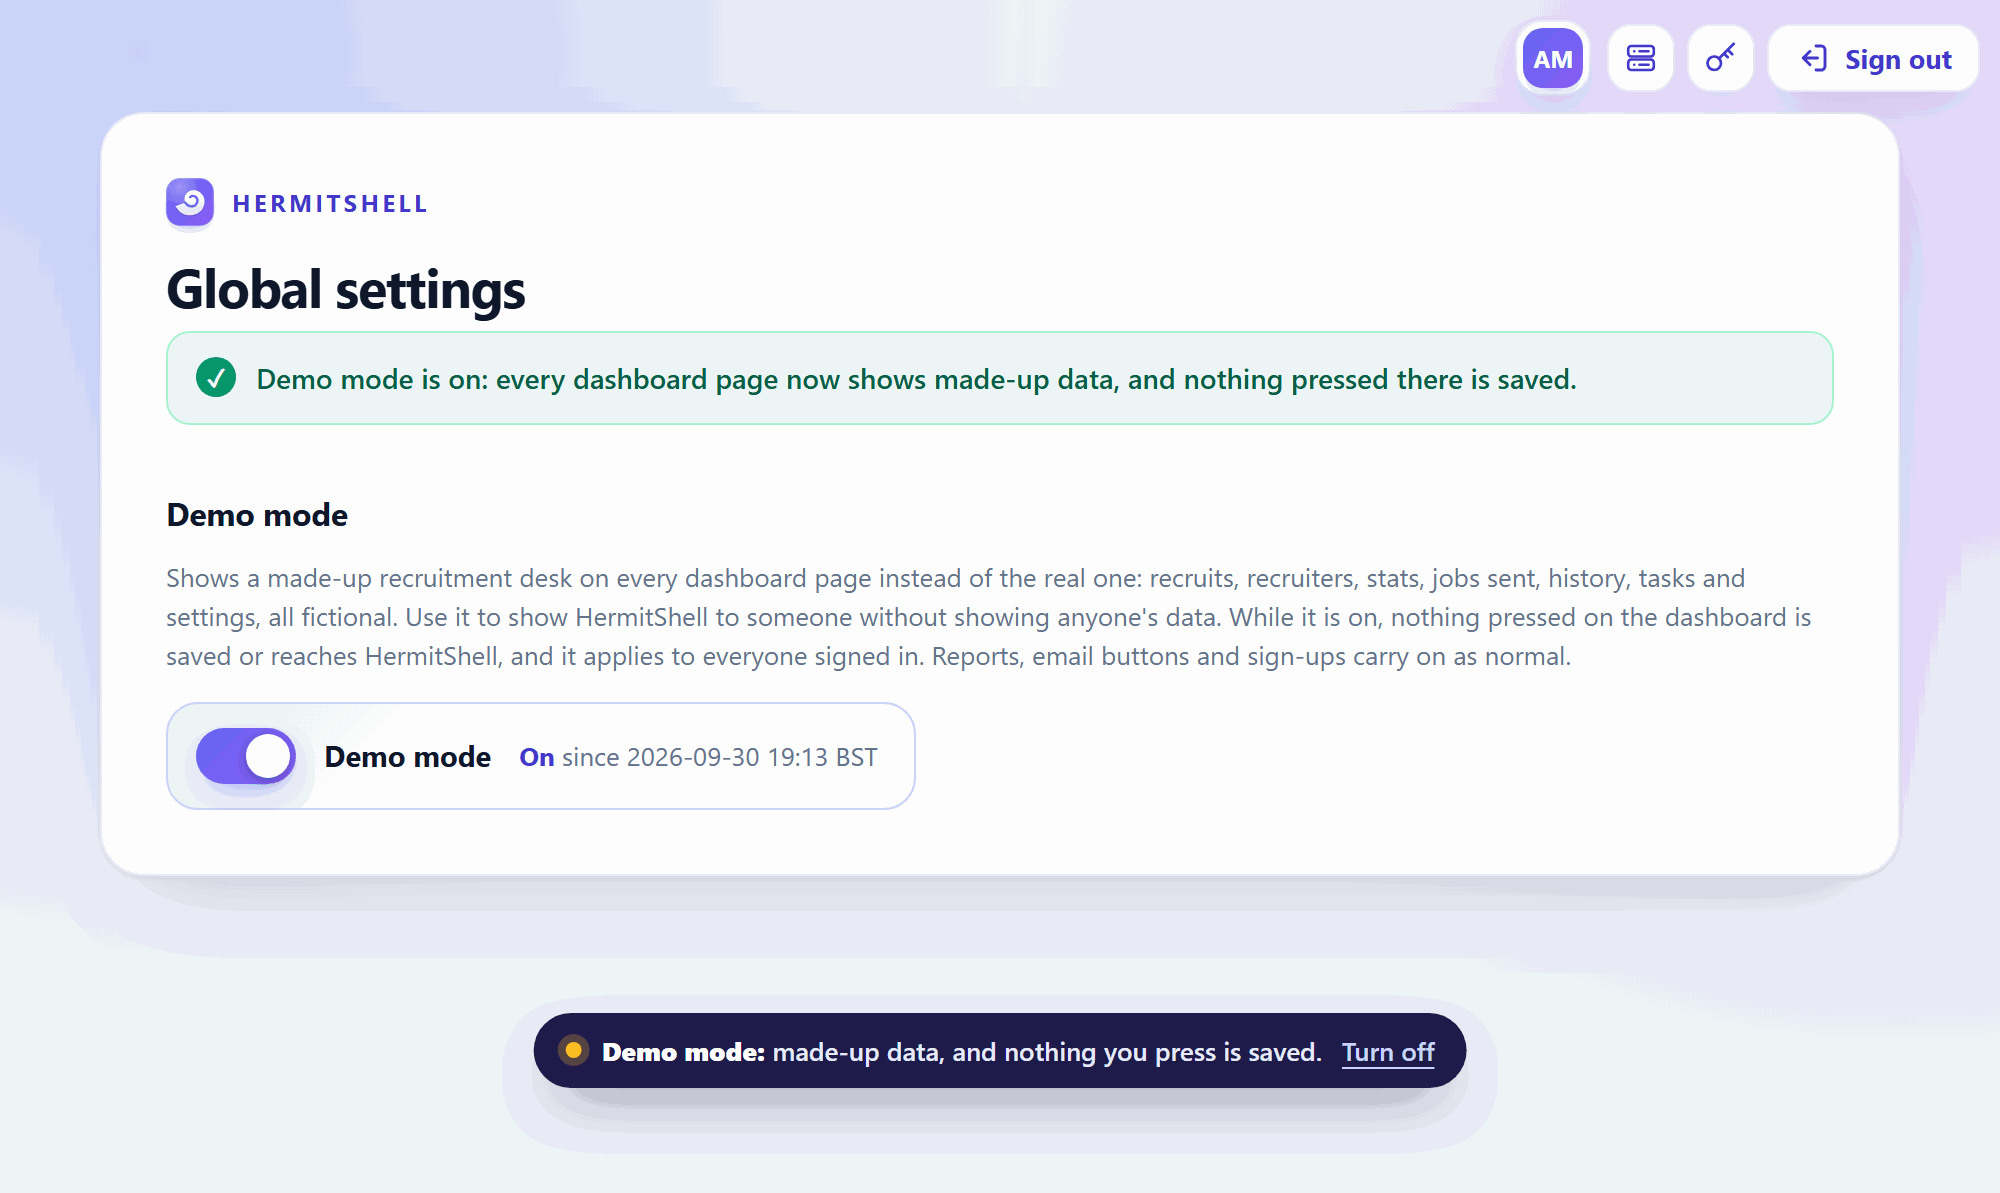
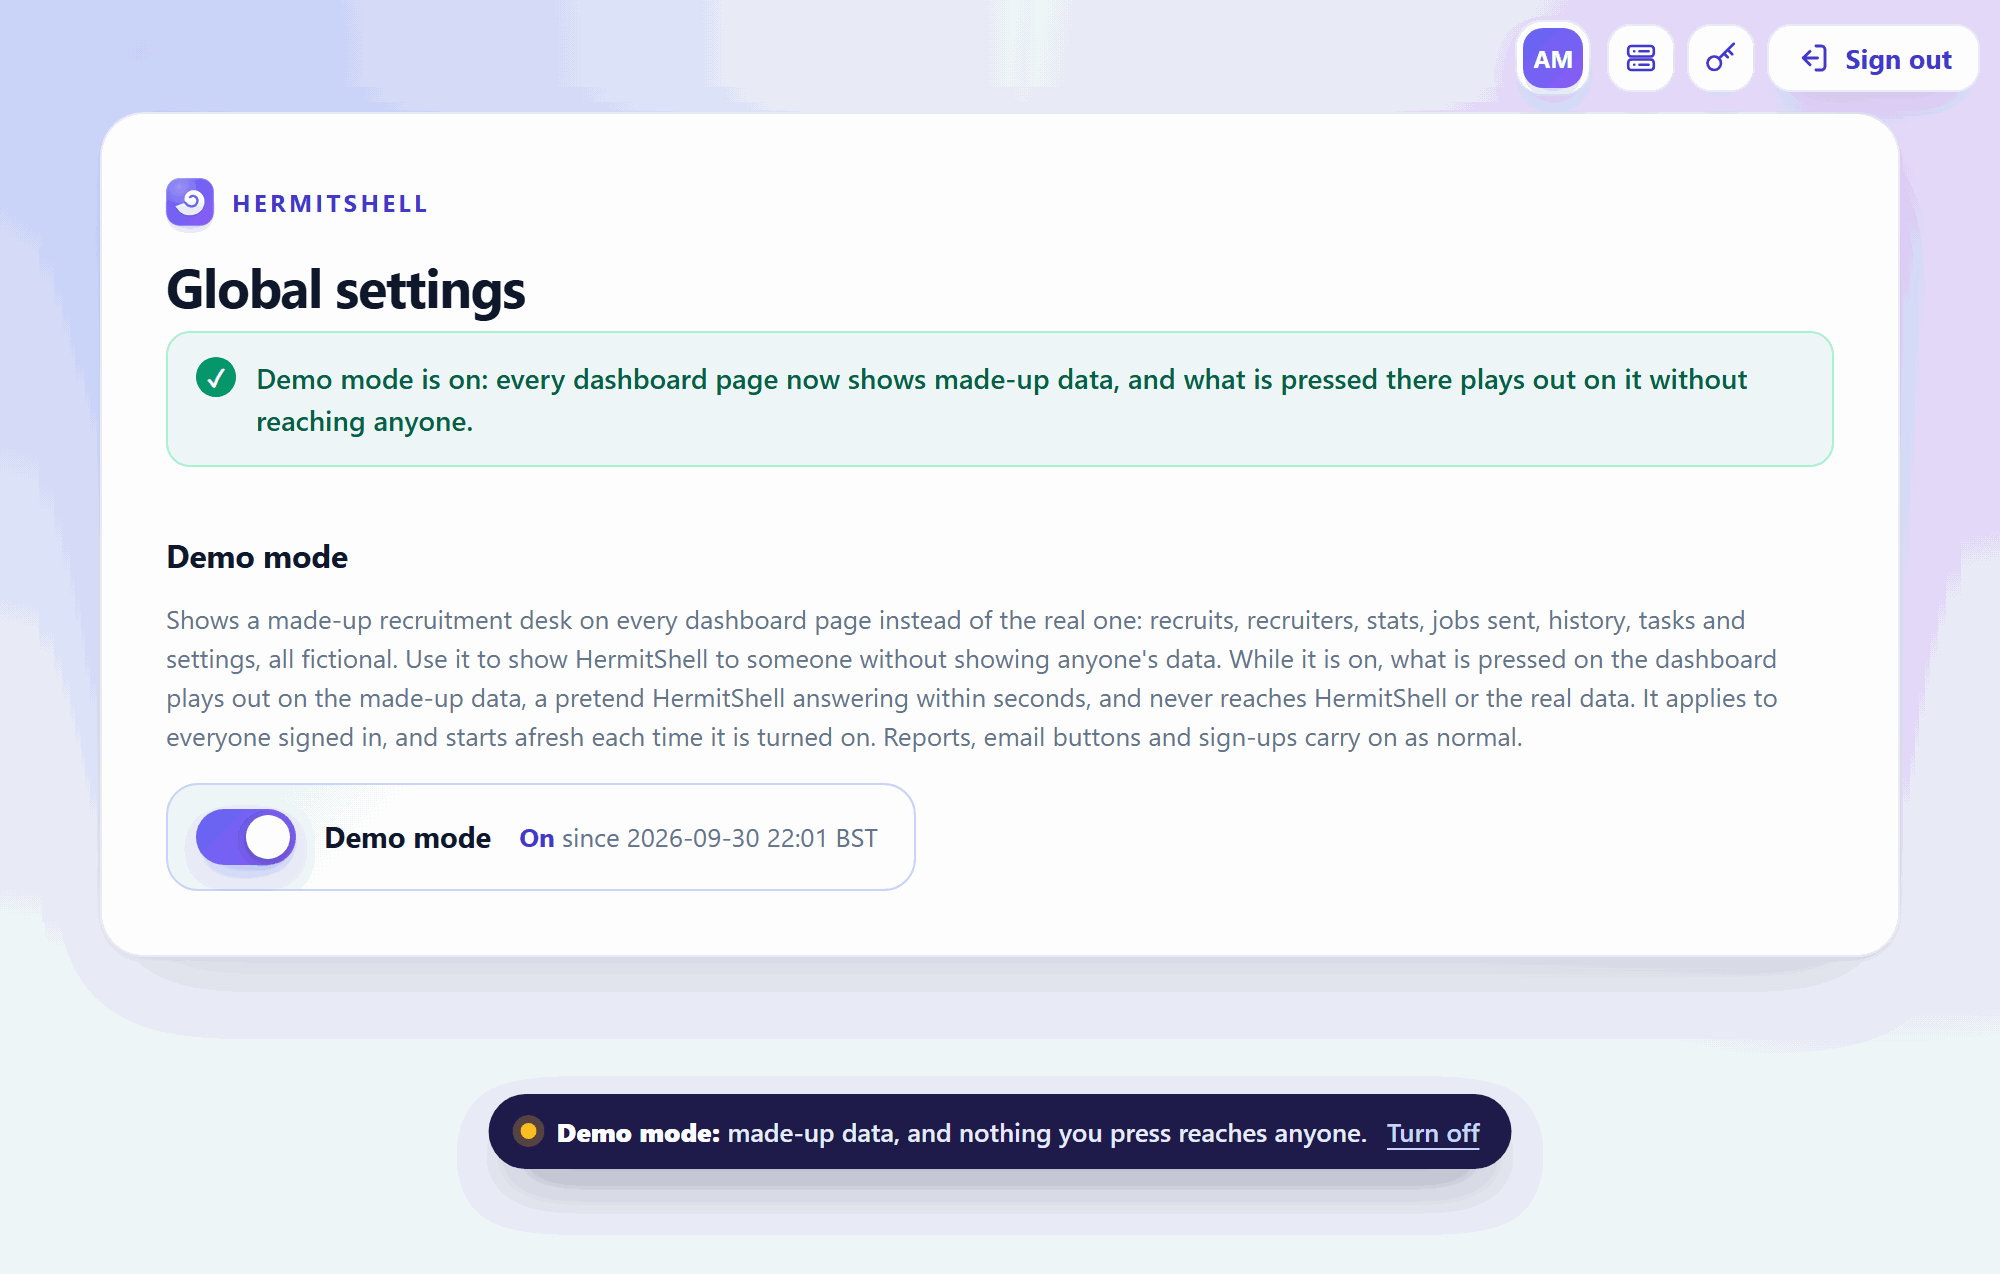
Document demo mode presses playing out
Changelog, README and feedback Worker docs describe the pretend HermitShell and
demo:state, with a new screenshot of a made-up job's letter made, skill added and
CV being made, and the demo screenshots updated for the new ribbon wording.

diff --git a/docs/feedback-worker.md b/docs/feedback-worker.md
@@ -644,13 +644,20 @@ that is on or off.
 
 <img src="images/worker/admin-dashboard-demo.png" alt="The recruits list in demo mode: made-up recruits, recruiters and invites, and the demo mode ribbon" width="720">
 
-Every press works as it would (pausing, sending jobs, assigning, inviting, saving settings, keys and
-CVs), but only on a copy of the demo data made for that request, so nothing is saved, nothing is queued
+Every press works as it would, and a pretend HermitShell plays its part a few seconds later, on the
+made-up data only: **Generate** on a cover letter or tailored CV shows **Being made&hellip;** and then a
+made-up PDF to download, **Send** turns into **Emailed**, a missing skill goes from **adding** to
+**added**, and pausing, resuming, assigning, deleting, **Send now** (a short pretend scan) and stopping
+tasks show on the dashboard as HermitShell would apply them. What it did is kept for two hours in one
+`demo:state` entry, cleared whenever the switch is turned on or off. Settings, keys, CVs and users can be
+saved but are not kept past that page, nothing typed into them goes into `demo:state`, nothing is queued
 and nothing reaches HermitShell. Changing your own password is still real. The Worker's API, the buttons
 in emails, sign-up links and the privacy notice carry on with the real data, so daily reports keep
 running while it is on.
 
 <img src="images/worker/admin-stats-demo.png" alt="A made-up recruit's stats page in demo mode" width="620">
+
+<img src="images/worker/admin-sent-demo.png" alt="A made-up job opened in demo mode: the cover letter asked for earlier made and ready to download, the Terraform skill added, and the tailored CV asked for just now being made" width="620">
 
 #### A recruit's page
 

diff --git a/docs/screenshots.md b/docs/screenshots.md
@@ -474,12 +474,14 @@ older and how to update it ([why](feedback-worker.md#how-it-stays-safe)).
 
 | Control | What it does |
 | --- | --- |
-| **Demo mode** switch | Admins only; shows Off, or On and since when. Every dashboard page shows a made-up desk for everyone signed in; presses work but save nothing and reach neither KV nor HermitShell ([more](feedback-worker.md#demo-mode)) |
+| **Demo mode** switch | Admins only; shows Off, or On and since when. Every dashboard page shows a made-up desk for everyone signed in; presses play out on it (letters and CVs get made, skills added, recruits paused) but reach neither the real data nor HermitShell ([more](feedback-worker.md#demo-mode)) |
 | Demo mode ribbon | At the foot of every page while it is on; admins get a **Turn off** link |
 
 <img src="images/worker/admin-dashboard-demo.png" alt="The recruits list in demo mode with made-up recruits and the ribbon" width="620">
 
 <img src="images/worker/admin-stats-demo.png" alt="A made-up recruit's stats page in demo mode" width="620">
+
+<img src="images/worker/admin-sent-demo.png" alt="A made-up job opened in demo mode: the cover letter asked for earlier made and ready to download, the Terraform skill added, and the tailored CV asked for just now being made" width="620">
 
 ### A recruit's page
 

diff --git a/CHANGELOG.md b/CHANGELOG.md
@@ -8,6 +8,13 @@ using [Semantic Versioning](https://semver.org/).
 
 ### Added
 
+- **Demo mode presses play out.** In demo mode a pretend HermitShell now does what a press asks for, a
+  few seconds later, on the made-up data only: **Generate** on a cover letter or tailored CV shows
+  **Being made&hellip;** and then a made-up PDF to download, **Send** turns into **Emailed**, a missing skill goes
+  from **adding** to **added**, and pausing, resuming, assigning, deleting, **Send now** (a short pretend
+  scan) and stopping tasks all land on the dashboard. What it did is kept for two hours in one
+  `demo:state` entry, cleared whenever the switch is turned on or off. Nothing typed into settings, keys,
+  CVs or users is kept, and nothing is queued for or sent to HermitShell.
 - **A keyword prescreen before rating.** A full listing that names none of the CV's keywords is skipped
   without a model request (`JOB_PRESCREEN_MIN_KEYWORDS`, default 1), unless the title screen called it a
   clear match, and counted as "no CV keywords" under the report.

diff --git a/README.md b/README.md
@@ -73,7 +73,7 @@ One HermitShell server can run the daily reports for a whole desk of candidates:
   first), spread over every GPU or Ollama server you add, with cloud models to take the overflow.
   The model is sized to the machine, from a small server to a GPU box.
 - **Show it without showing anyone.** Demo mode fills the dashboard with a made-up desk of
-  candidates, stats and history; nothing pressed is saved, and daily reports carry on
+  candidates, stats and history; presses play out on it without reaching anyone, and daily reports carry on
   ([demo mode](docs/feedback-worker.md#demo-mode)).
 
 ## Quick start
